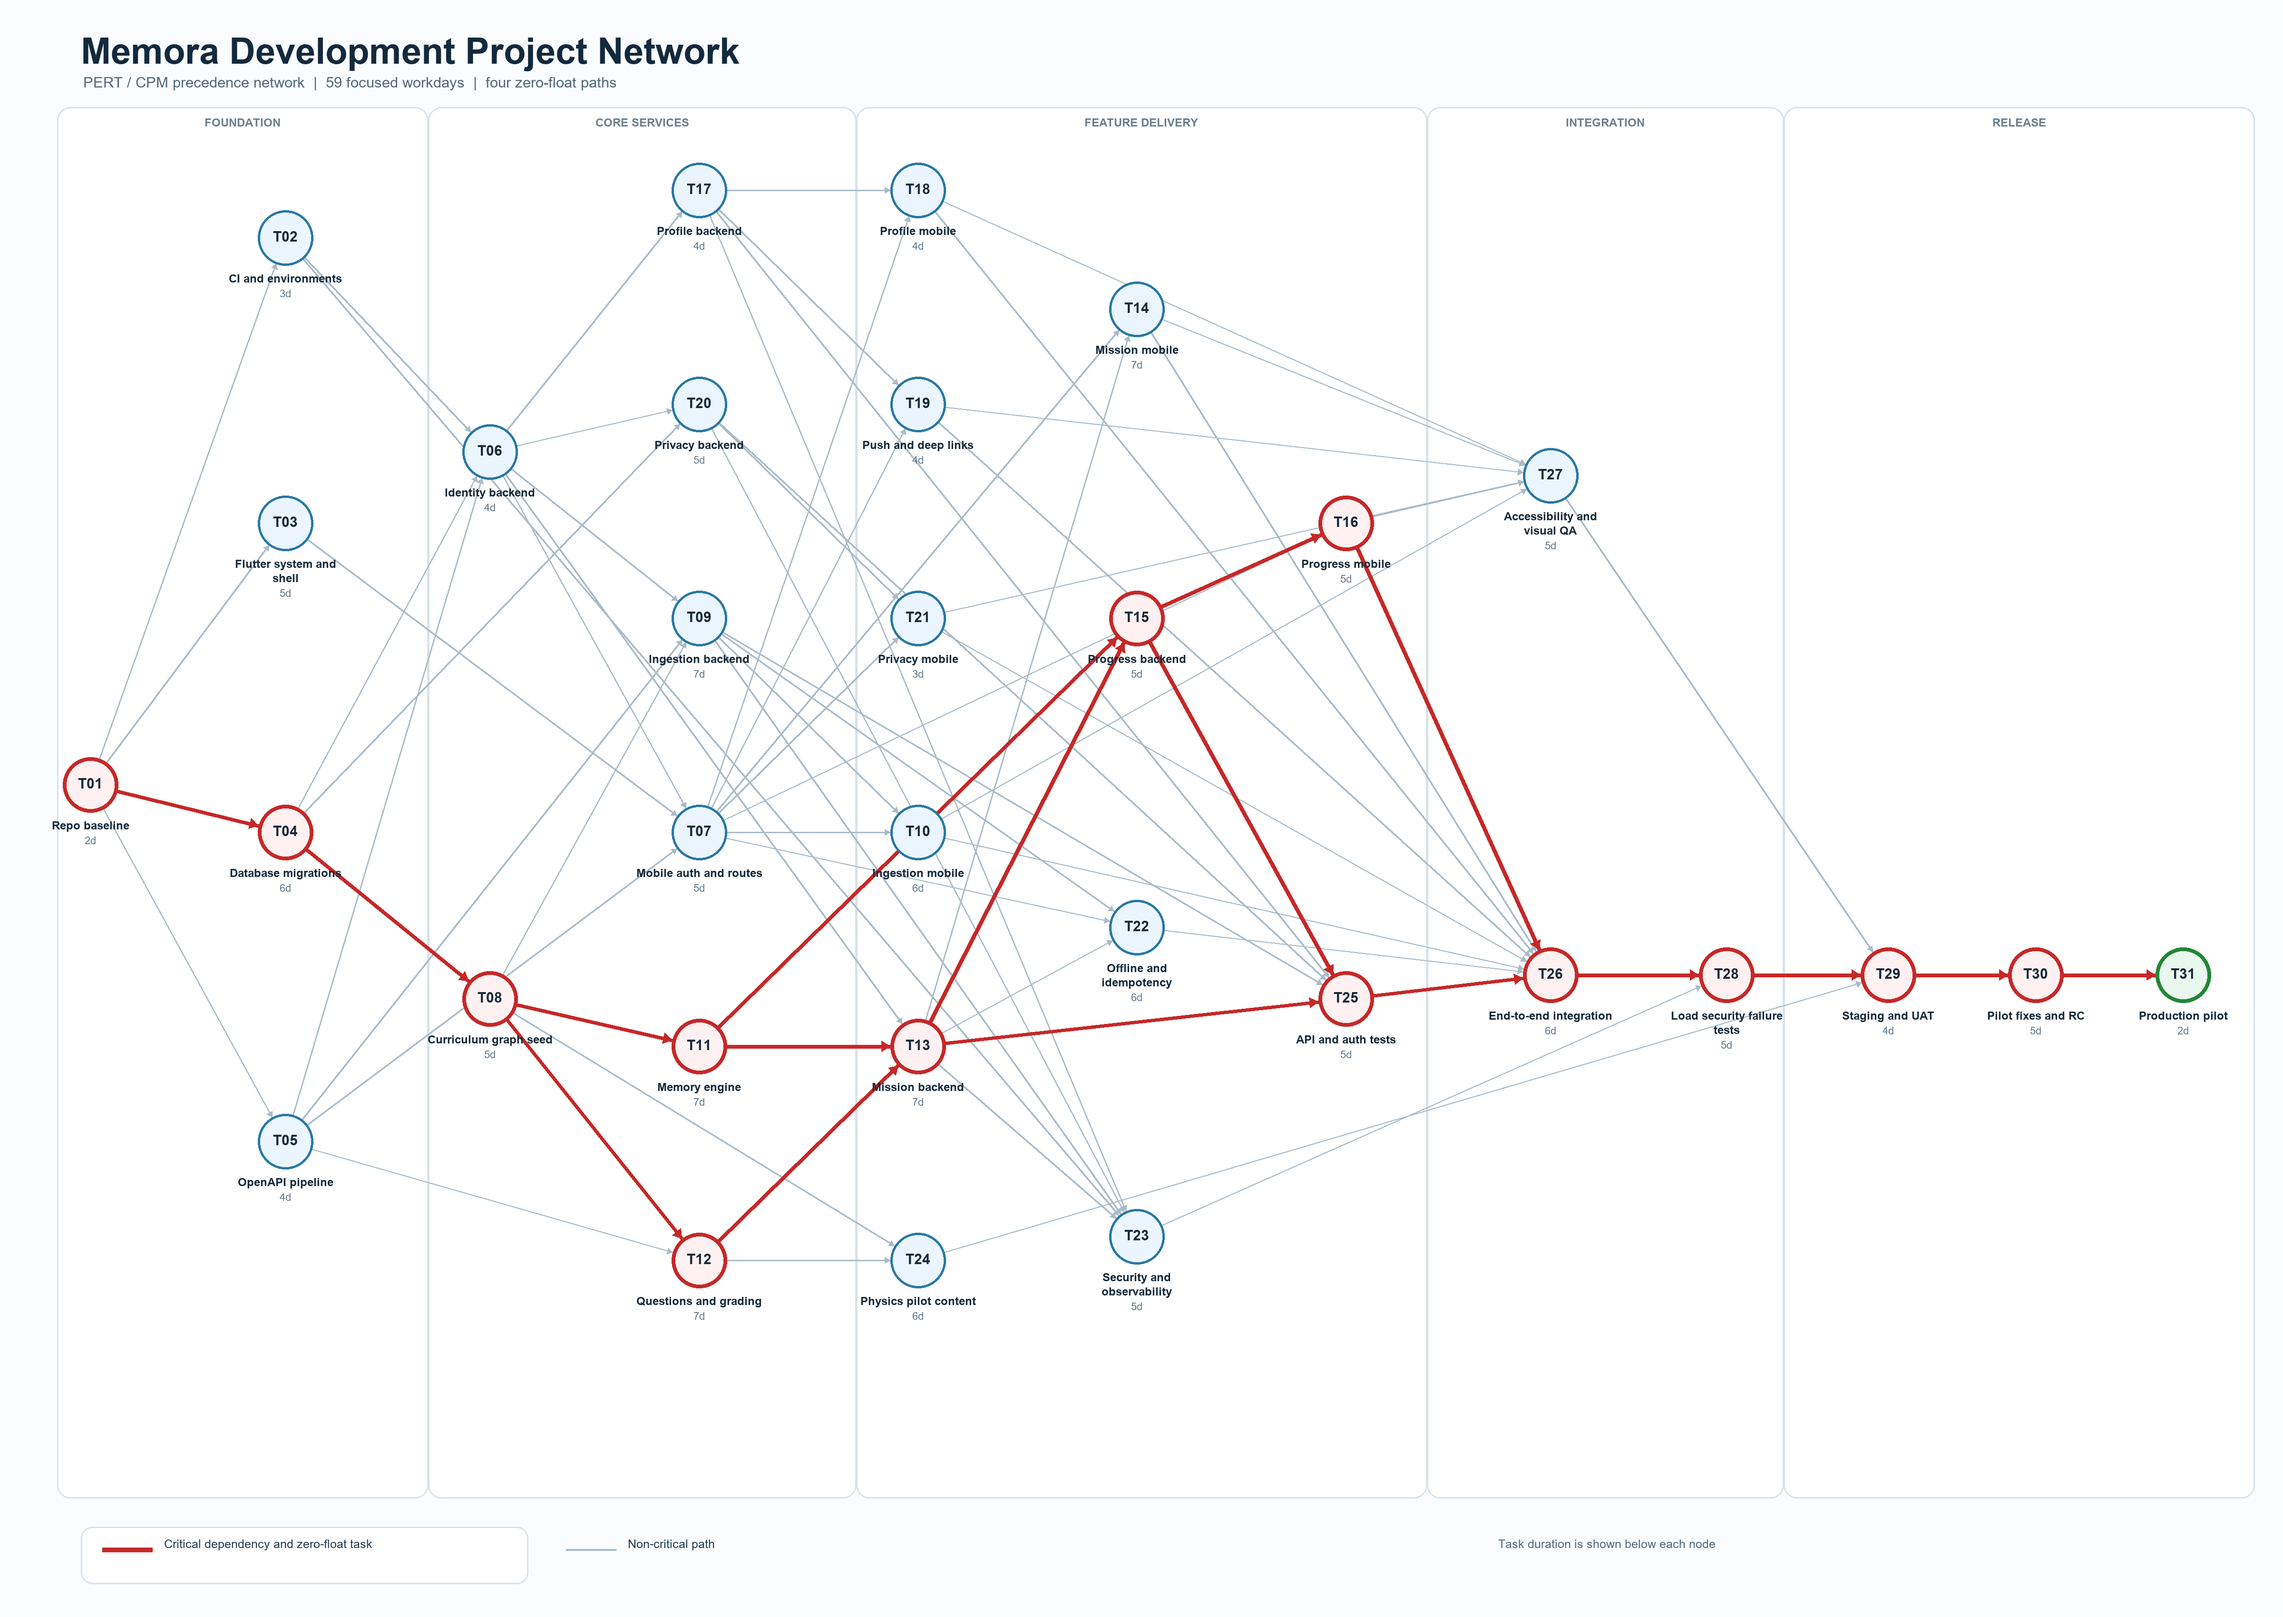
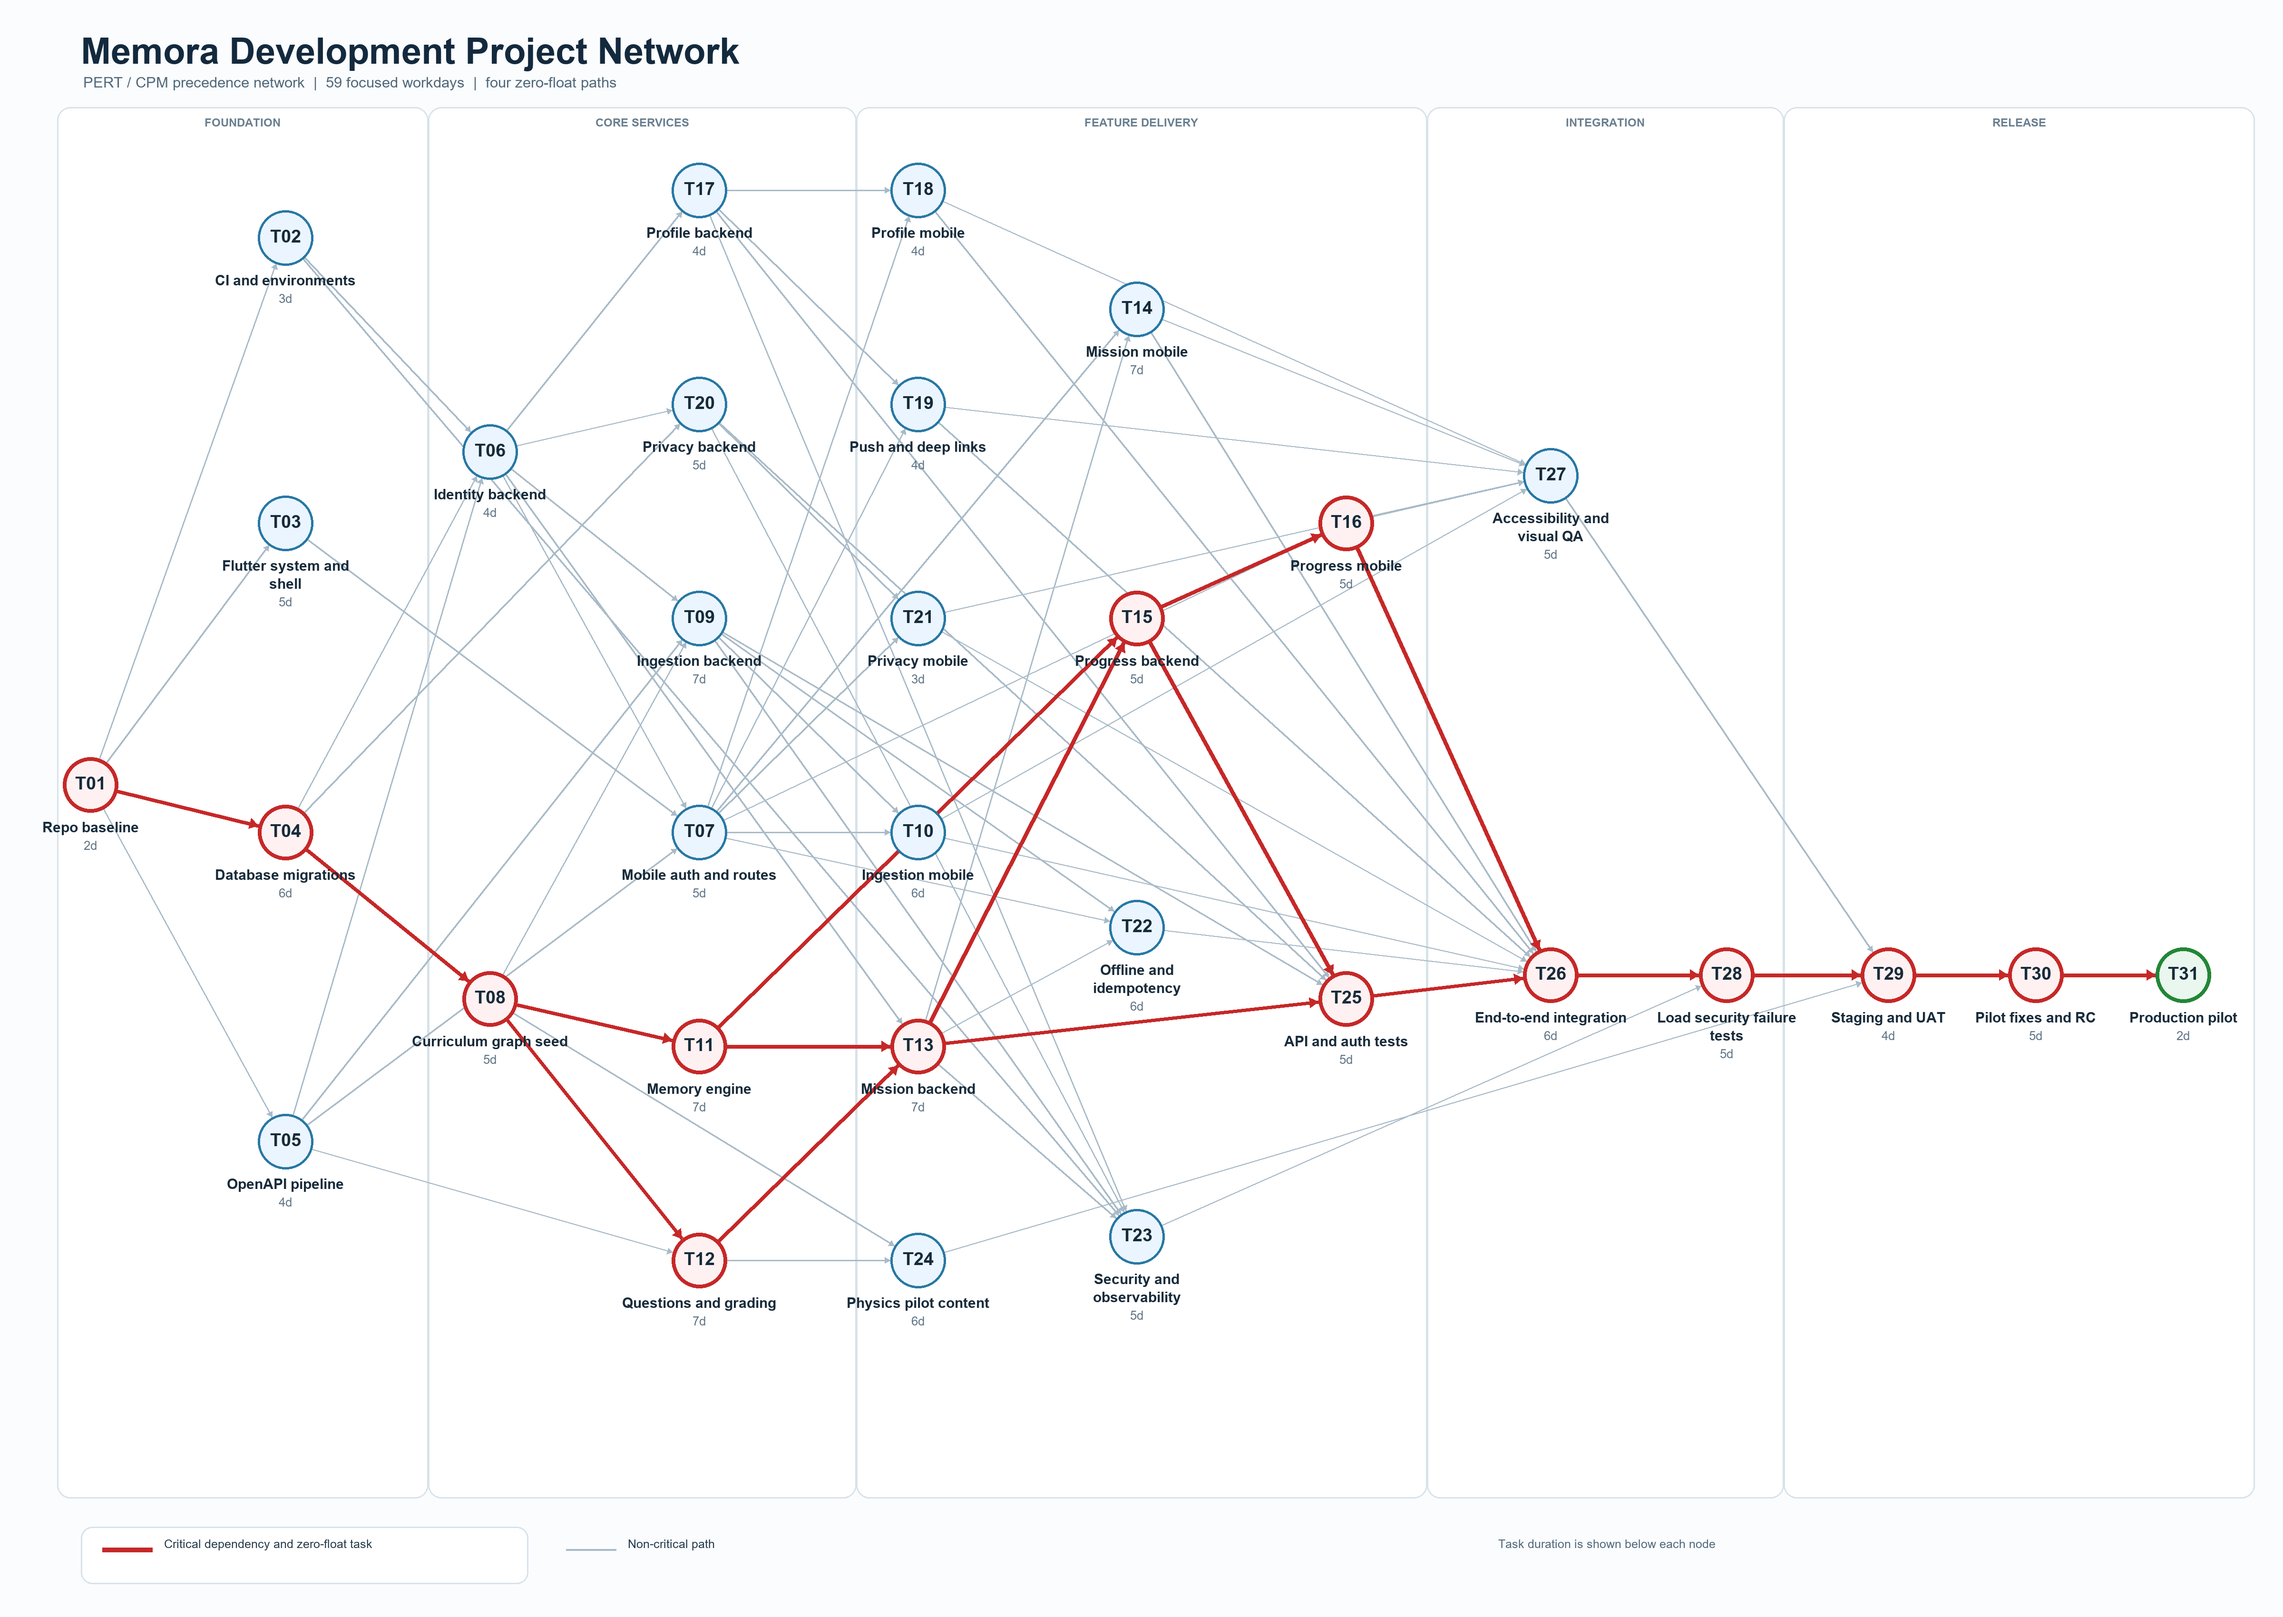
docs: enlarge CPM task labels

diff --git a/tools/docs/build_network_diagram.py b/tools/docs/build_network_diagram.py
@@ -191,31 +191,31 @@ def build():
             outline=outline,
             width=8 if critical else 5,
         )
-        id_box = draw.textbbox((0, 0), task, font=font(30, True))
+        id_box = draw.textbbox((0, 0), task, font=font(38, True))
         draw.text(
-            (x - (id_box[2] - id_box[0]) / 2, y - 20),
+            (x - (id_box[2] - id_box[0]) / 2, y - 25),
             task,
-            font=font(30, True),
+            font=font(38, True),
             fill="#172B3A",
         )
 
         lines = textwrap.wrap(label, width=22)
         label_y = y + 72
         for line in lines[:2]:
-            box = draw.textbbox((0, 0), line, font=font(24, True))
+            box = draw.textbbox((0, 0), line, font=font(30, True))
             draw.text(
                 (x - (box[2] - box[0]) / 2, label_y),
                 line,
-                font=font(24, True),
+                font=font(30, True),
                 fill="#172B3A",
             )
-            label_y += 30
+            label_y += 38
         duration = f"{days}d"
-        box = draw.textbbox((0, 0), duration, font=font(22))
+        box = draw.textbbox((0, 0), duration, font=font(26))
         draw.text(
             (x - (box[2] - box[0]) / 2, label_y + 3),
             duration,
-            font=font(22),
+            font=font(26),
             fill="#607587",
         )
 
